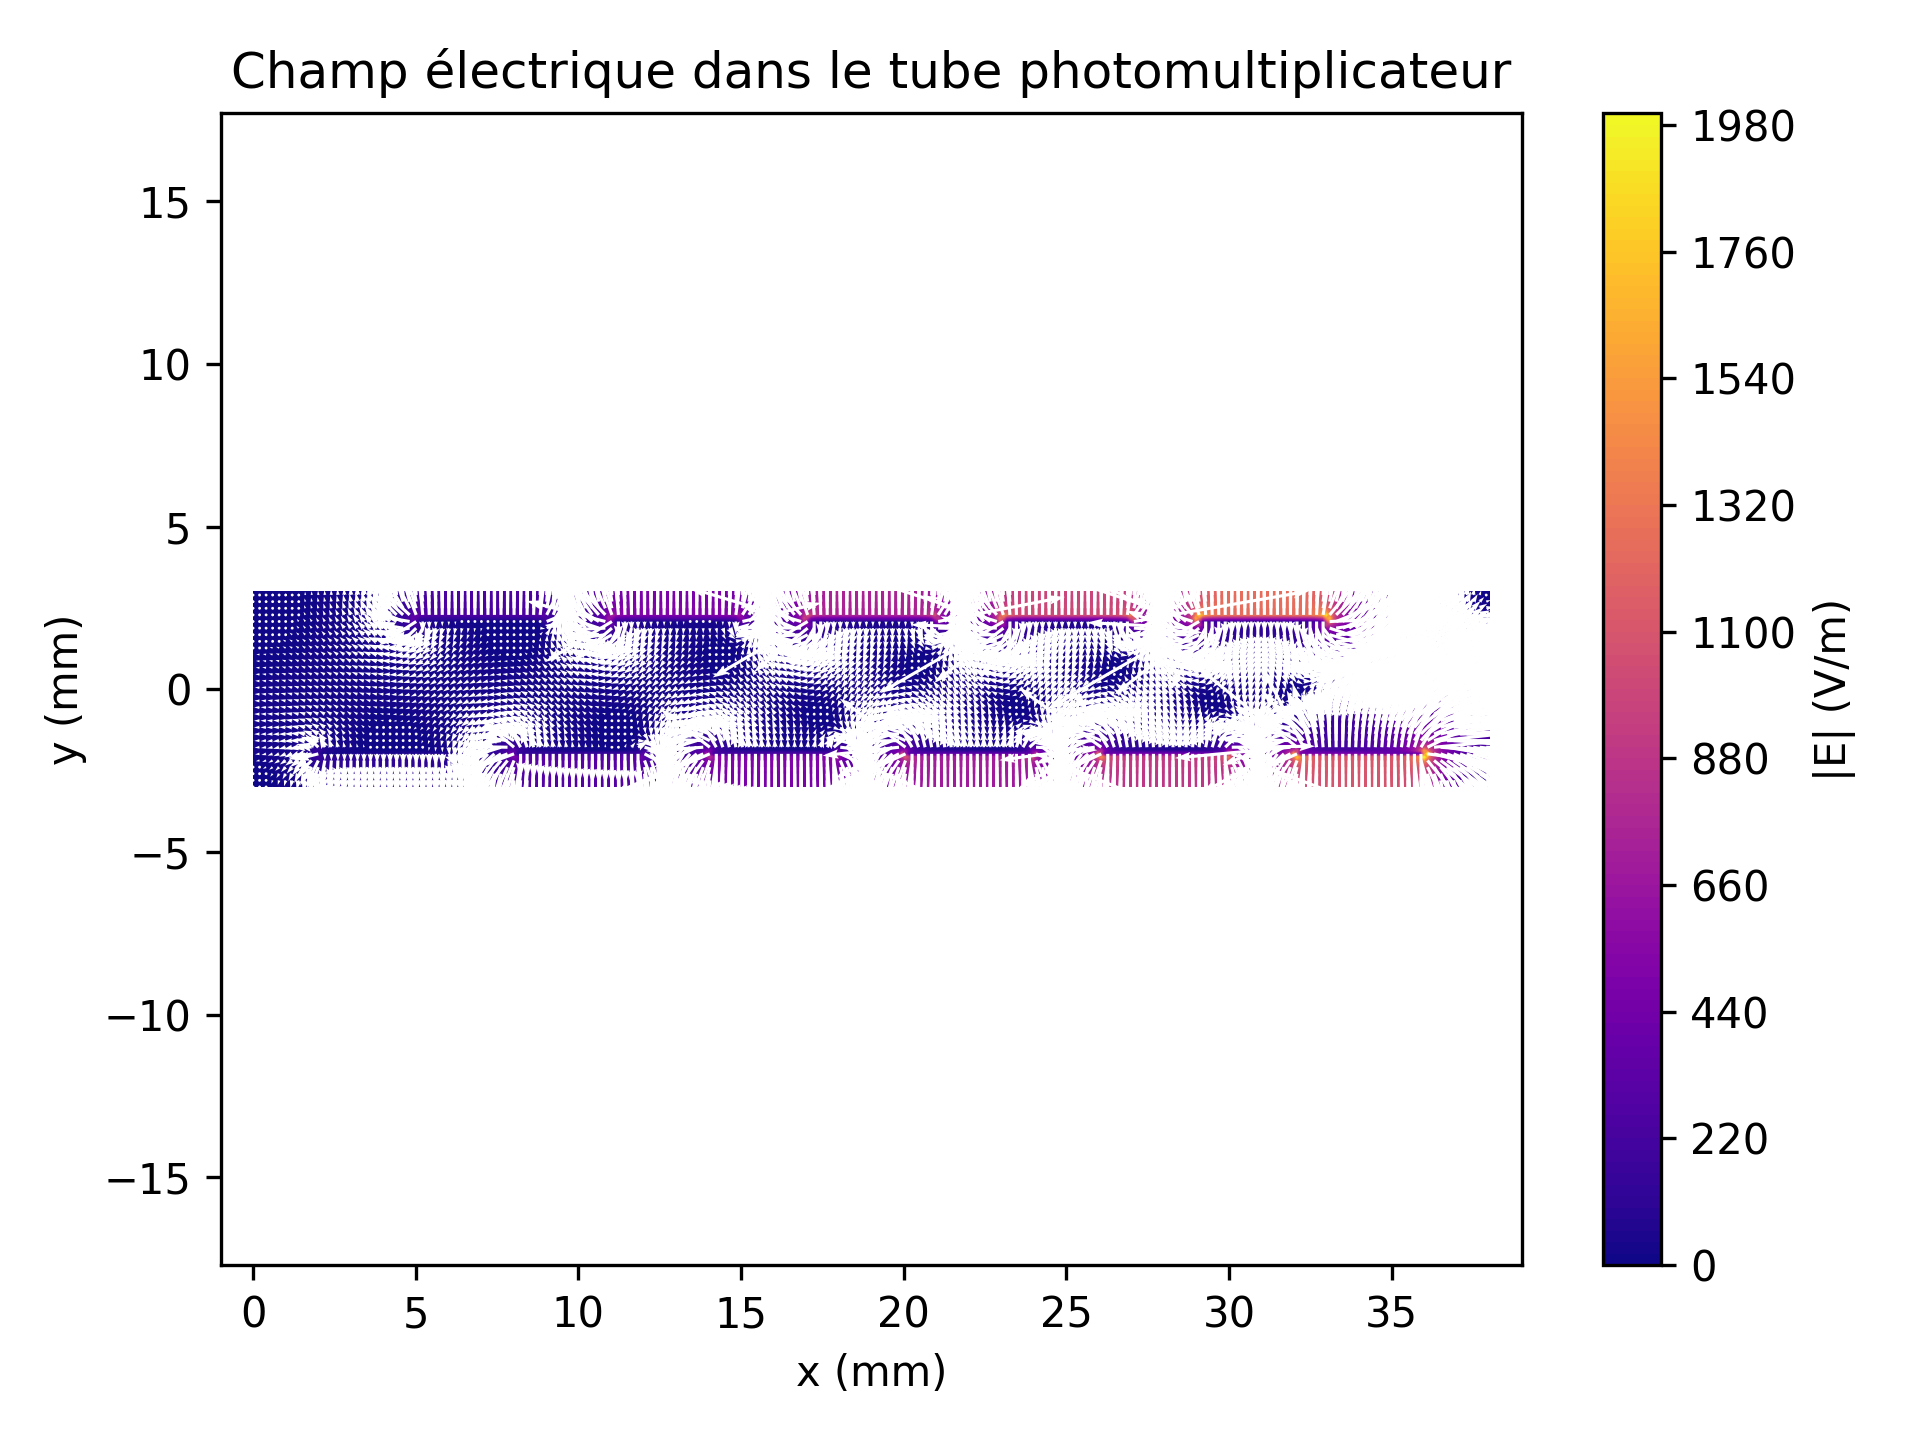
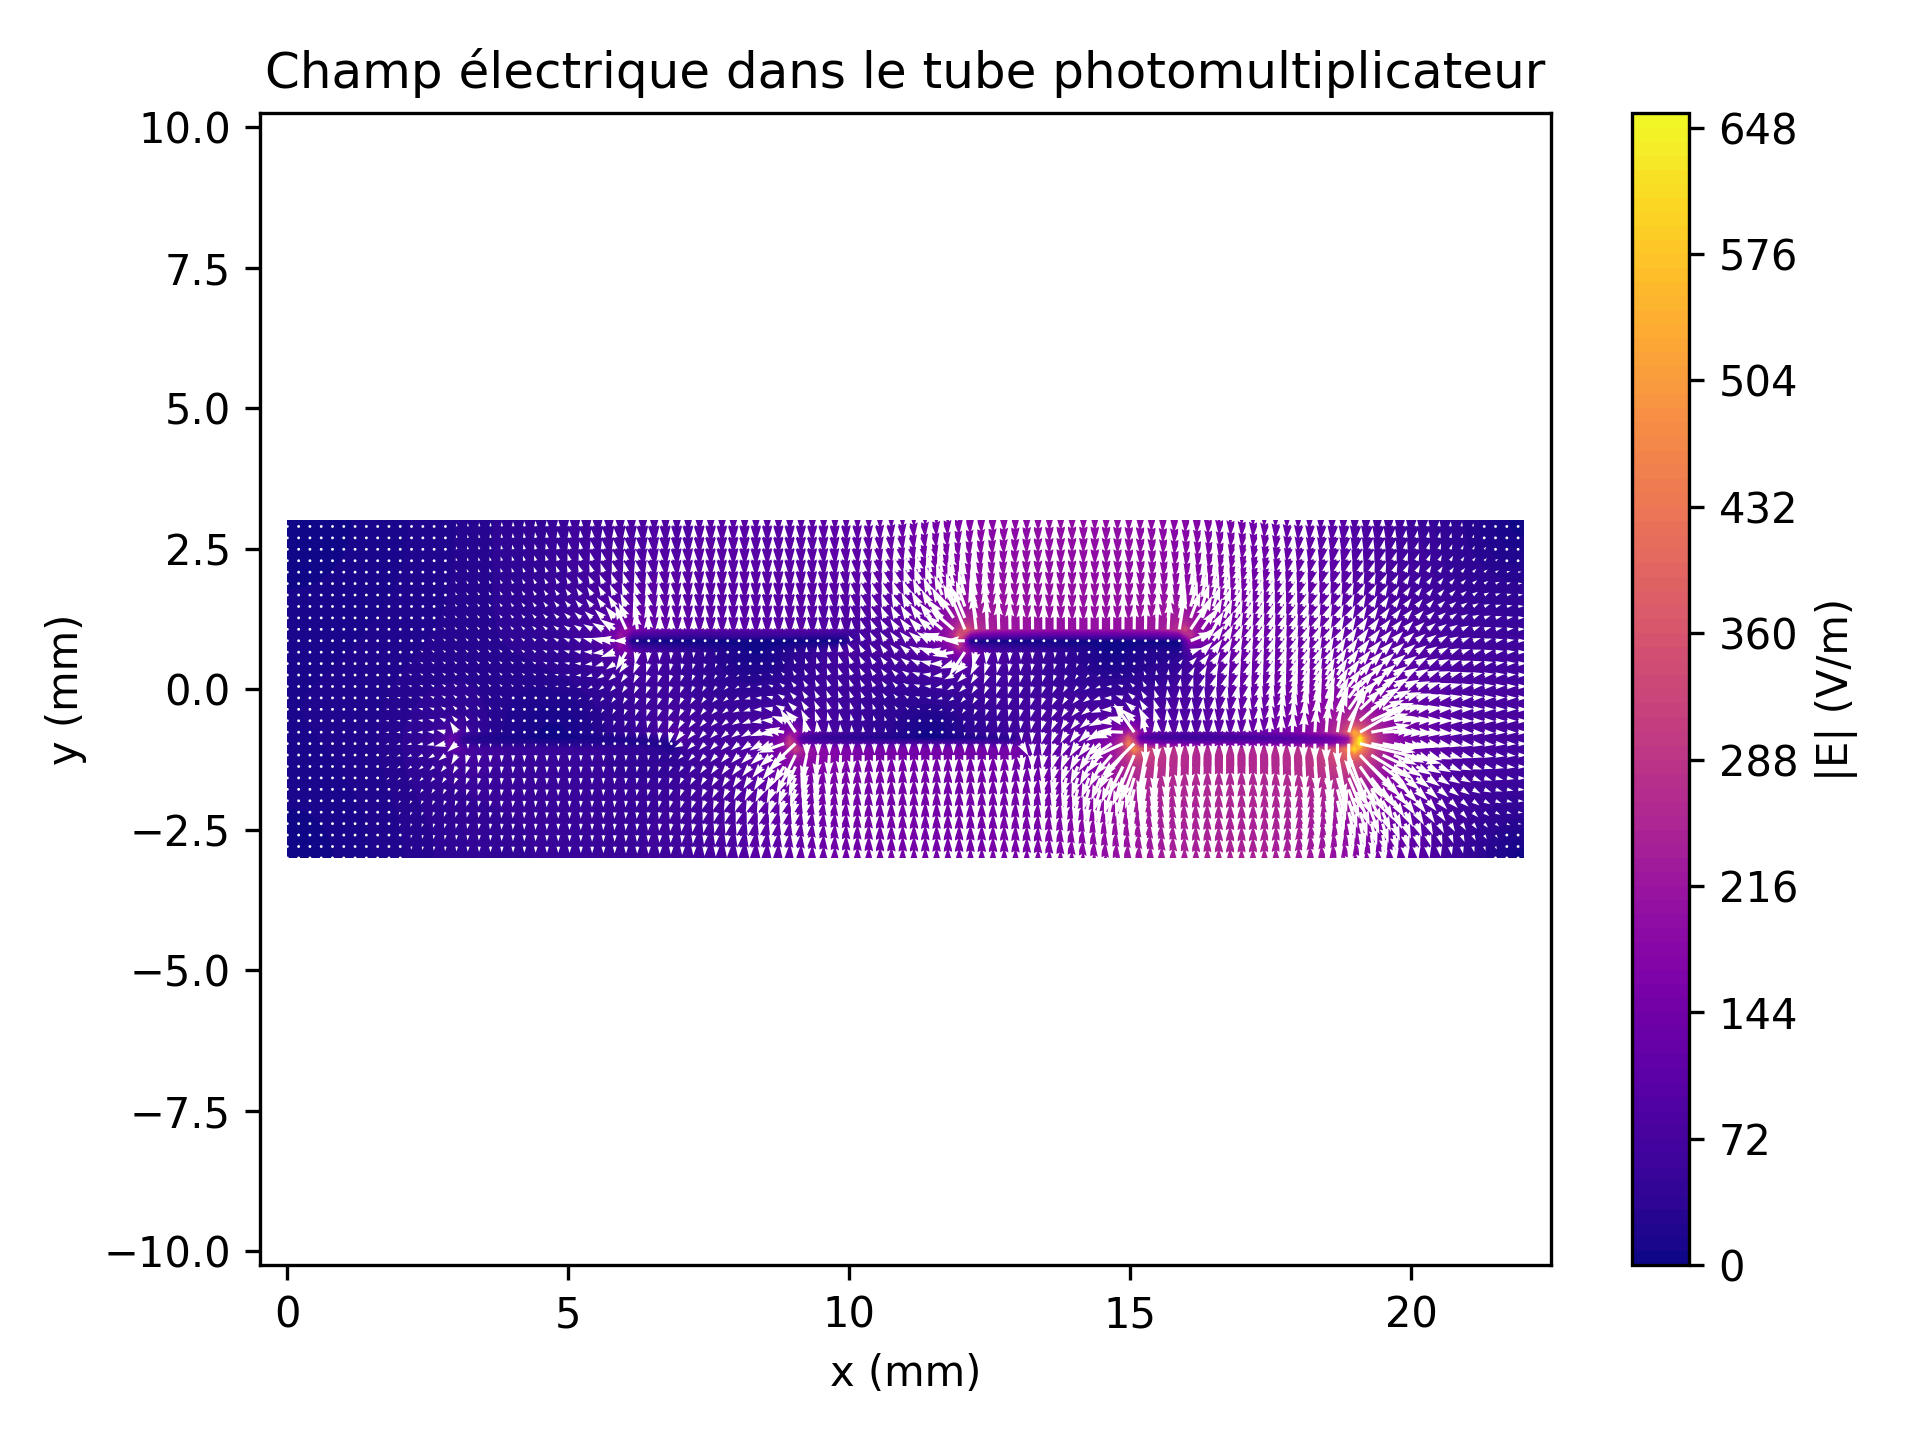
question 1 et 2 clean

diff --git a/question2.py b/question2.py
@@ -82,22 +82,24 @@ def relaxation(V, bloqué, variation=1e-5, max_iter=10000):
         print("Attention !!!!!!!!!! ")
         print("Le maximum d'itérations a été atteint sans stabilisation, donc le programme a été arrêté")
     return V
+res = relaxation(V, bloqué, variation=1e-5, max_iter=3000)
 
 # calculer le gradient en x et y grâce à numpy
-print(V)
-Ey, Ex = np.gradient(-V, dx, dx)
+
+Ey, Ex = np.gradient(-res, dx, dx)
 
 E_norm = np.sqrt(Ex**2 + Ey**2) #norme
 
 #afficher le champ produit
 plt.contourf(X, Y, E_norm, levels=100, cmap='plasma')
+
 plt.colorbar(label="|E| (V/m)")
 
 saut = 2
 #vecteur
 plt.quiver(X[::saut, ::saut], Y[::saut, ::saut],
            Ex[::saut, ::saut], Ey[::saut, ::saut],
-           color='white', scale=60000)
+           color='white', scale=10000)
 
 plt.title("Champ électrique dans le tube photomultiplicateur")
 plt.xlabel("x (mm)")

diff --git a/question1.py b/question1.py
@@ -82,7 +82,7 @@ def relaxation(V, bloqué, variation=1e-5, max_iter=1000000):
         print("Attention !!!!!!!!!! ")
         print("Le maximum d'itérations a été atteint sans stabilisation, donc le programme a été arrêté")
     return V
-res = relaxation(V, bloqué, variation=1e-3, max_iter=3000)
+res = relaxation(V, bloqué, variation=1e-5, max_iter=3000)
 
 #Afficher le PM
 cp = plt.contourf(X, Y, res, levels=100, cmap="plasma")
